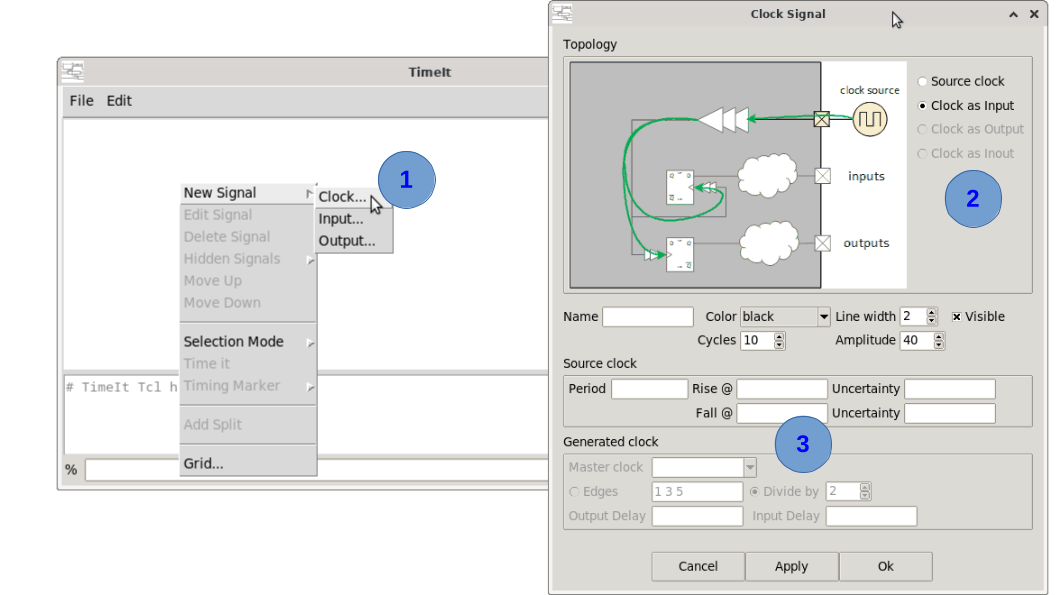
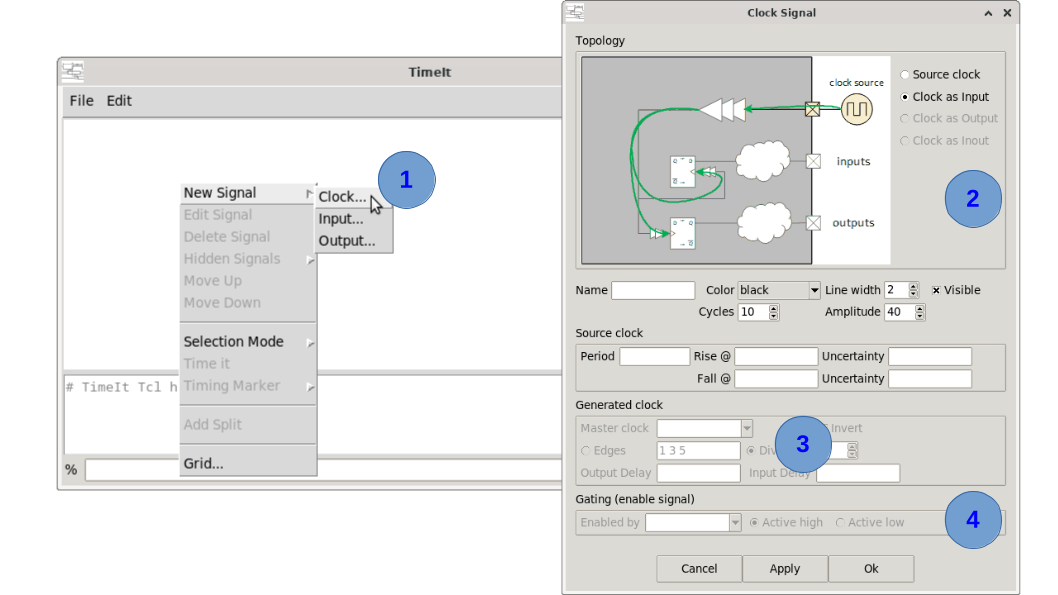
[doc] completing gated clock doc.

Changed region(s): [[0.4991, 0.0, 0.9981, 1.0], [0.6862, 0.0, 0.7798, 0.0303], [0.8422, 0.0303, 0.8733, 0.0605]]

diff --git a/docs/03_clock_signal.md b/docs/03_clock_signal.md
@@ -21,7 +21,8 @@ To create a generated clock, a source clock must be created first. Clocks having
     * Source clocks topologies are: "source" and "clock input"
     * Generated clock topologies are: "clock output" and "clock inout"  
 3. Complete the clock description. Not all fields are mandatory (see command documentation).
-    * **DO NOT** forget to select a "Master (source) clock" in generated clock creation.
+   * if it is a generated clock, **DO NOT** forget to select a "Master (source) clock" in generated clock creation.
+4. If generated clock is gated, select the enable signal.
 
 Notice that it is not possiblke to create generated clocks ("clock out" or "clock inout" topologies) if there is not at least one source clock already created. Create first source clocks. 
 
@@ -137,6 +138,7 @@ create_input -name cs_n -launch_clock clkref \
 create_clock -name sck -topology clockout -master clkref -divide_by 4 \
              -enabled_by cs_n -enable_active low -visible
 ```
+![TimeIt gated clock](screenshots/create_gated_clock.png)
 
 Behavior and rules:
 
